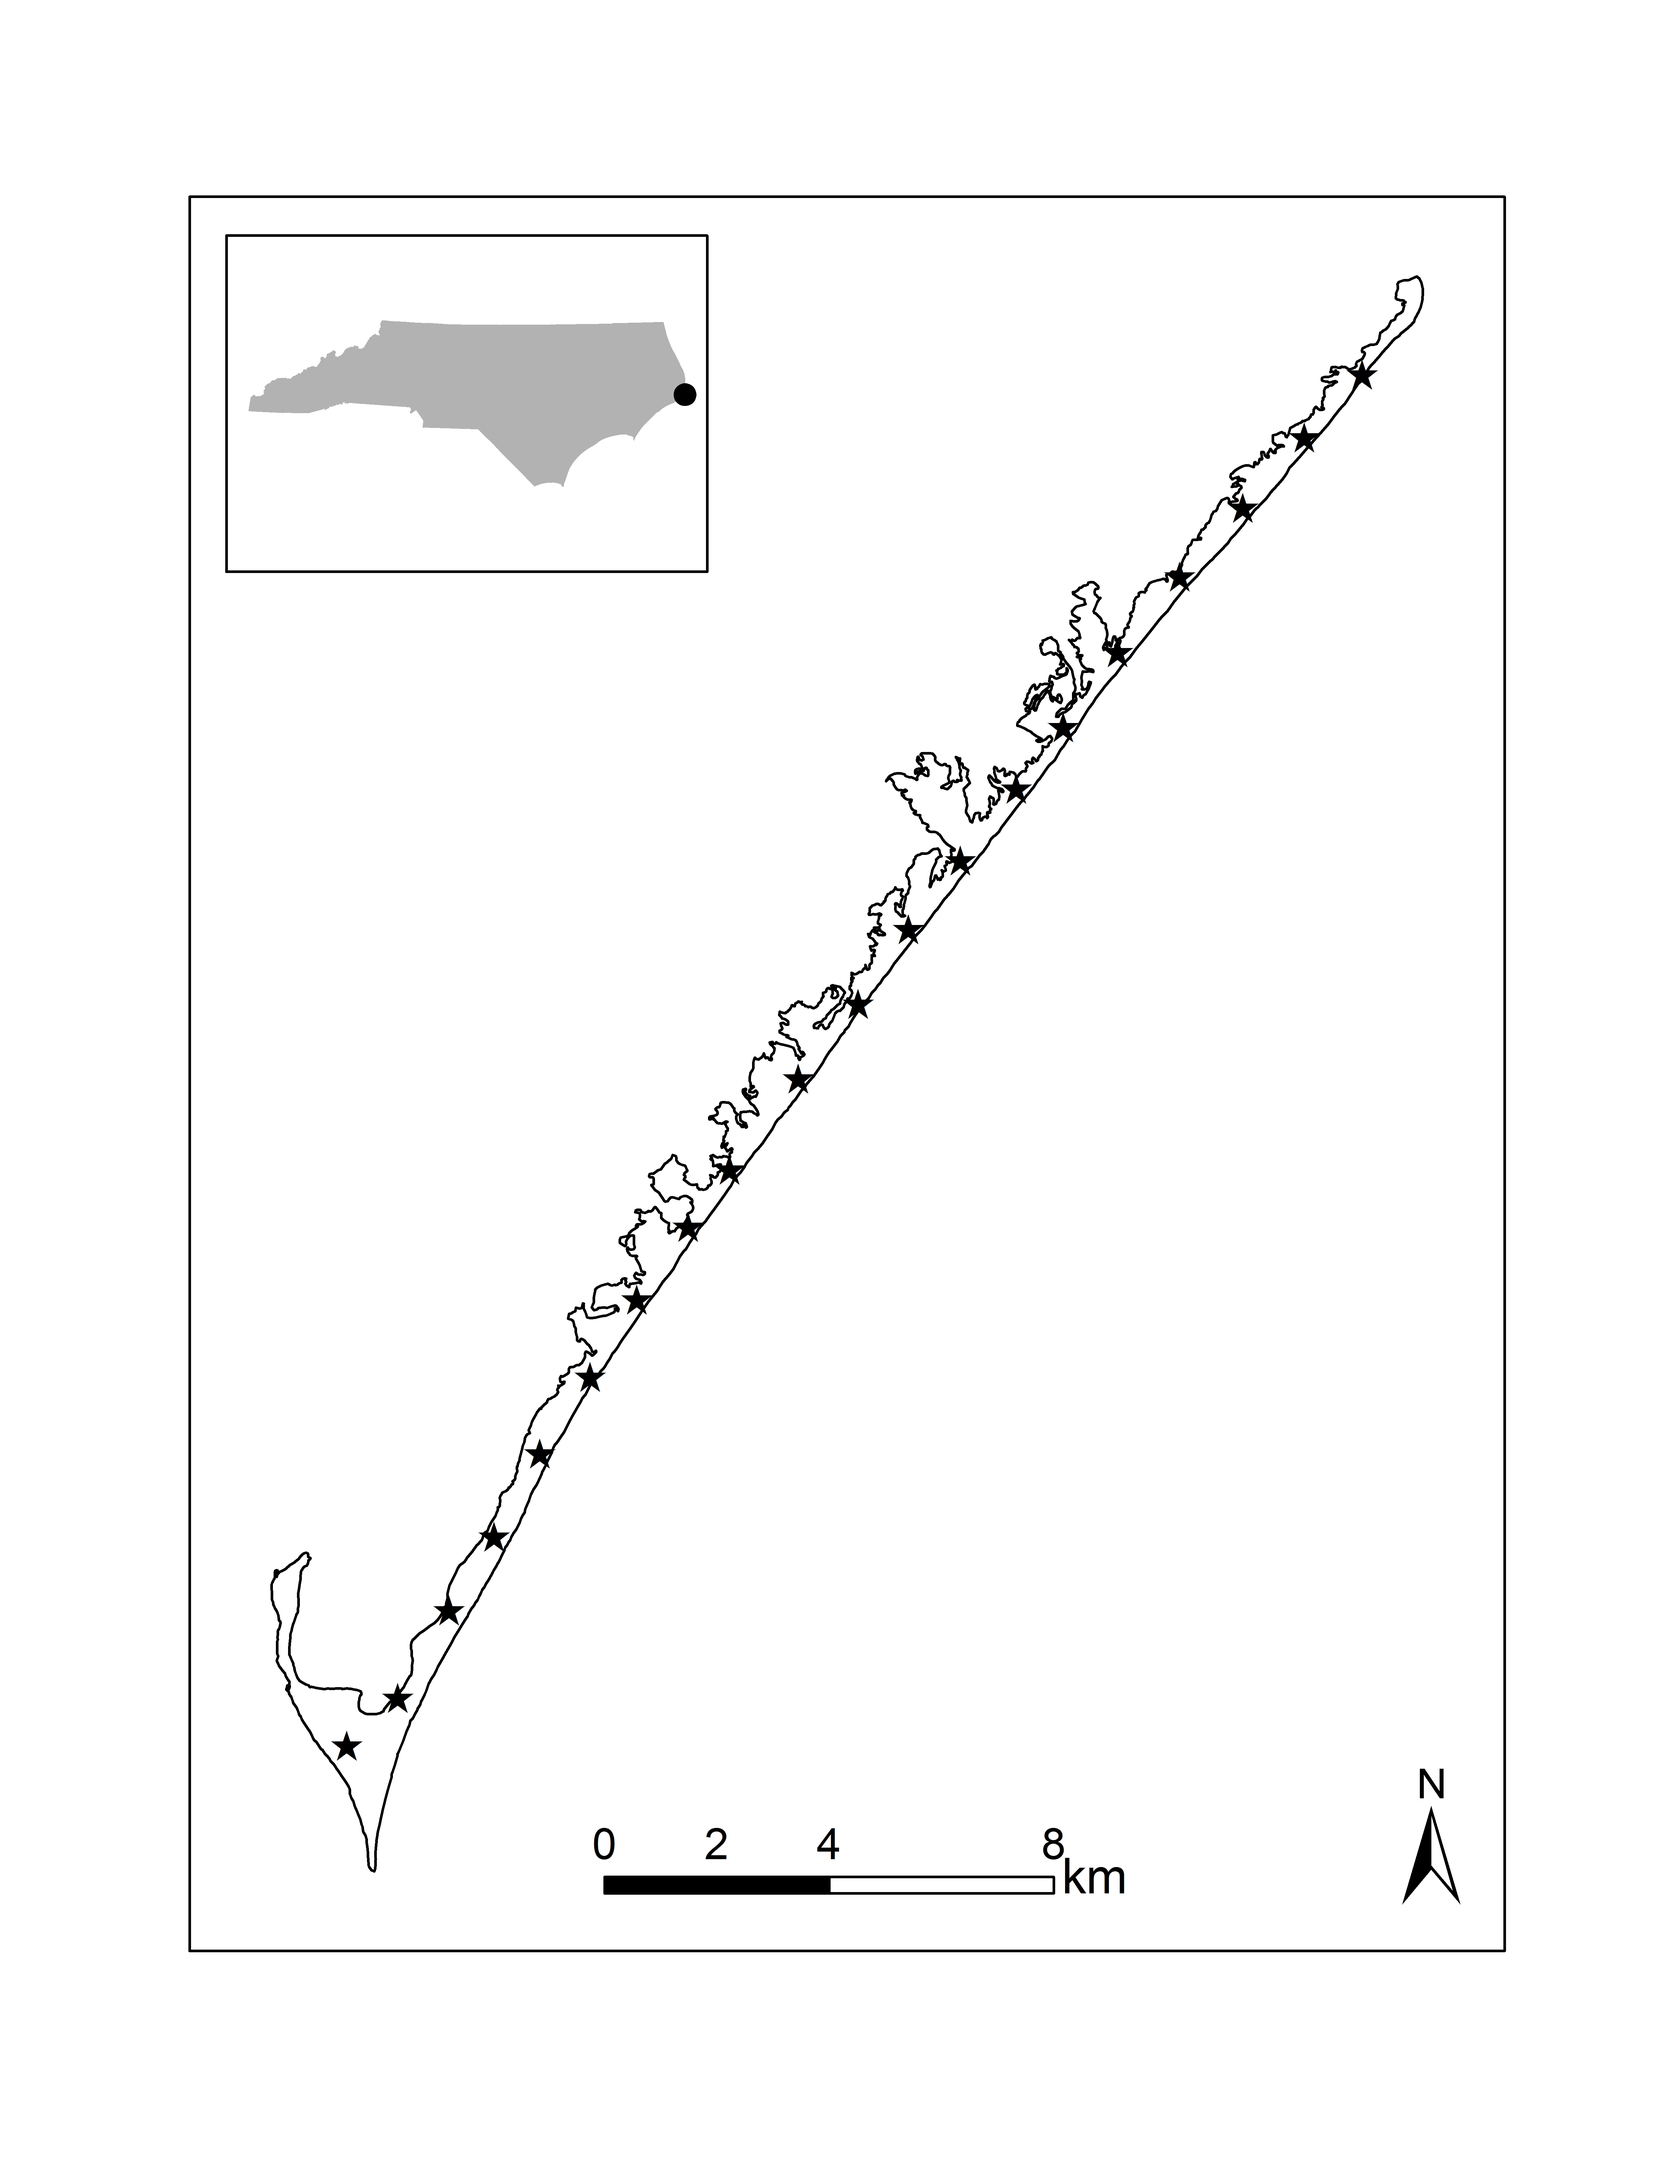
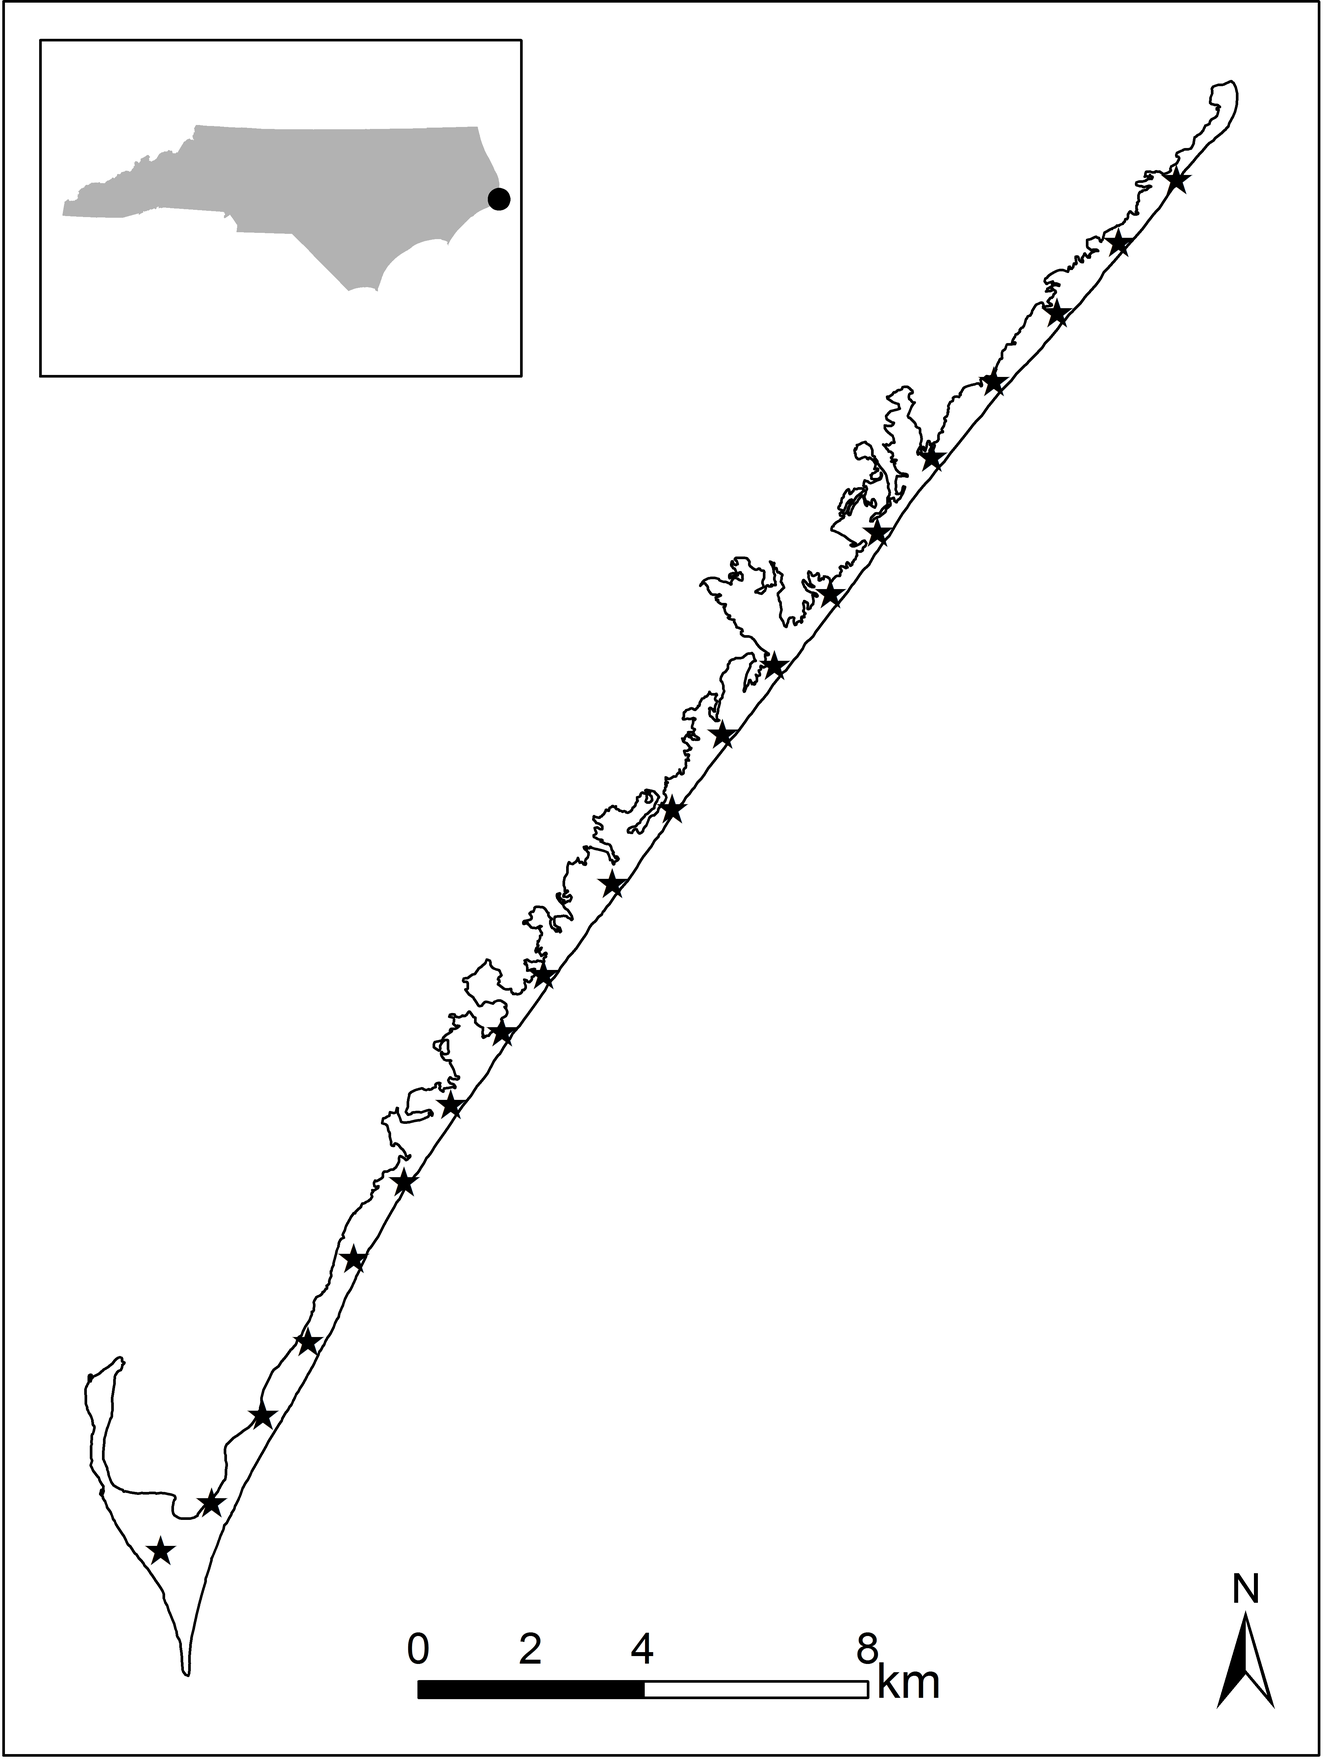
change pic

diff --git a/Ch7/Ch7.tex b/Ch7/Ch7.tex
@@ -1470,7 +1470,7 @@ Instead, within {\bf R} we can simply use an actual shapefile of the island.
 
 \begin{figure}
 \begin{center}
-\includegraphics[height=2.5in]{Ch7/figs/raccooncamera}
+\includegraphics[height=3.5in]{Ch7/figs/raccooncamera}
 \end{center}
 \caption{Camera traps (stars) set up on South Core Banks, a barrier island within Cape Lookout National Seashore, North Carolina (inset map) to estimate the raccoon population (see Chapt. \ref{chapt.partialID} for details).}
 \label{mcmc.fig.raccooncamera}
